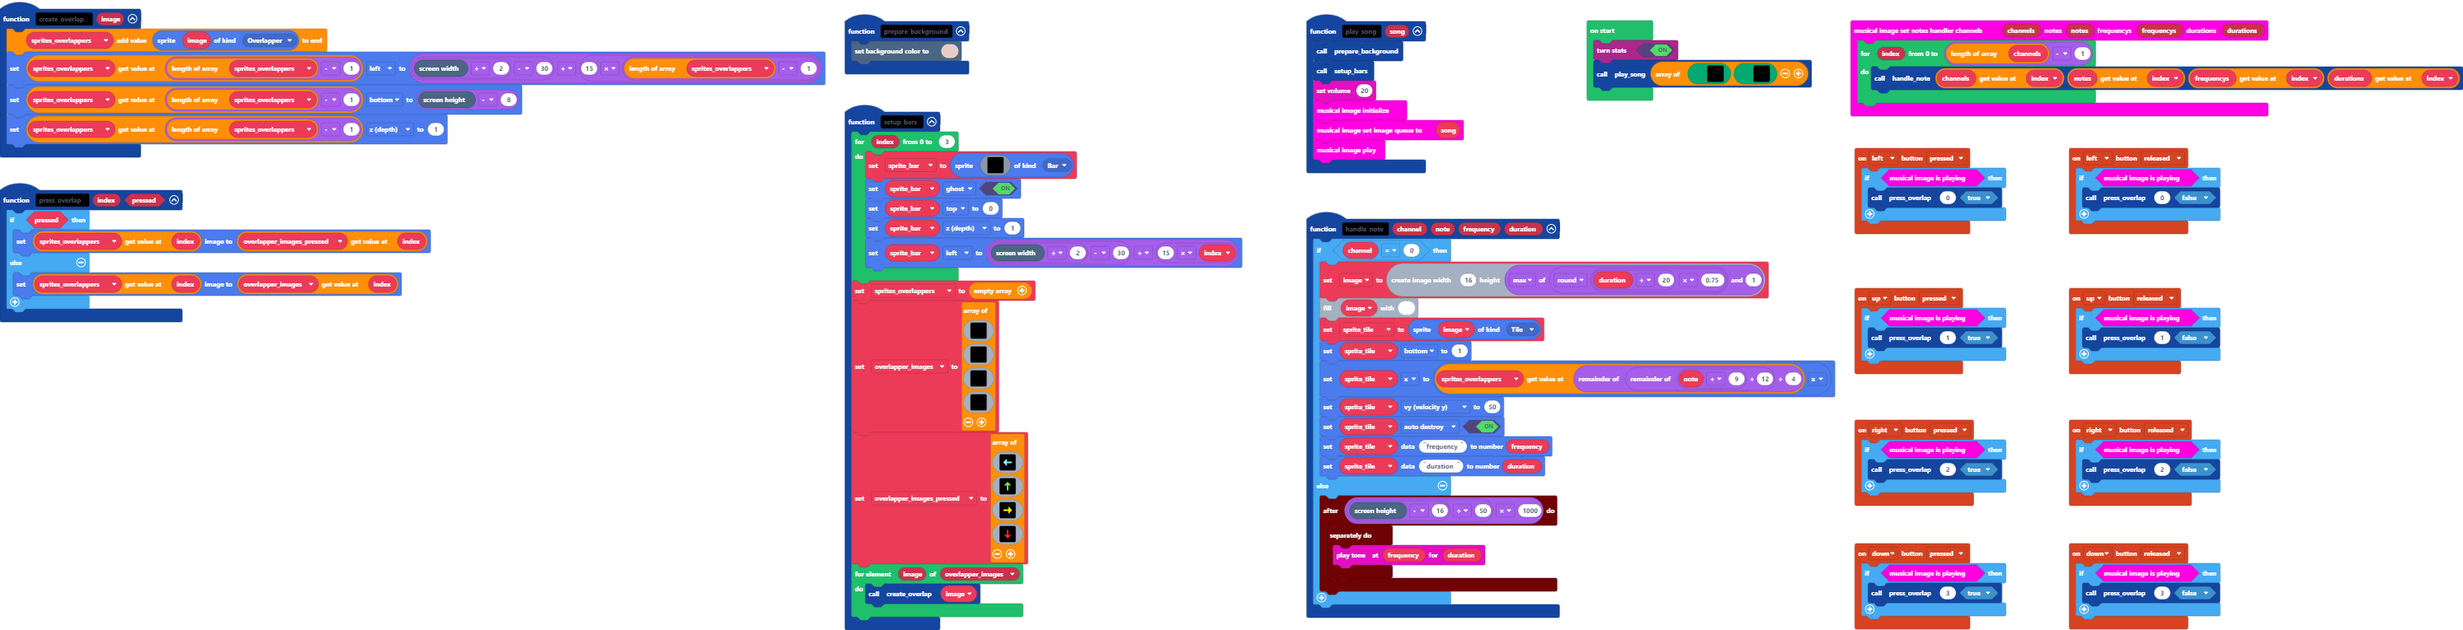
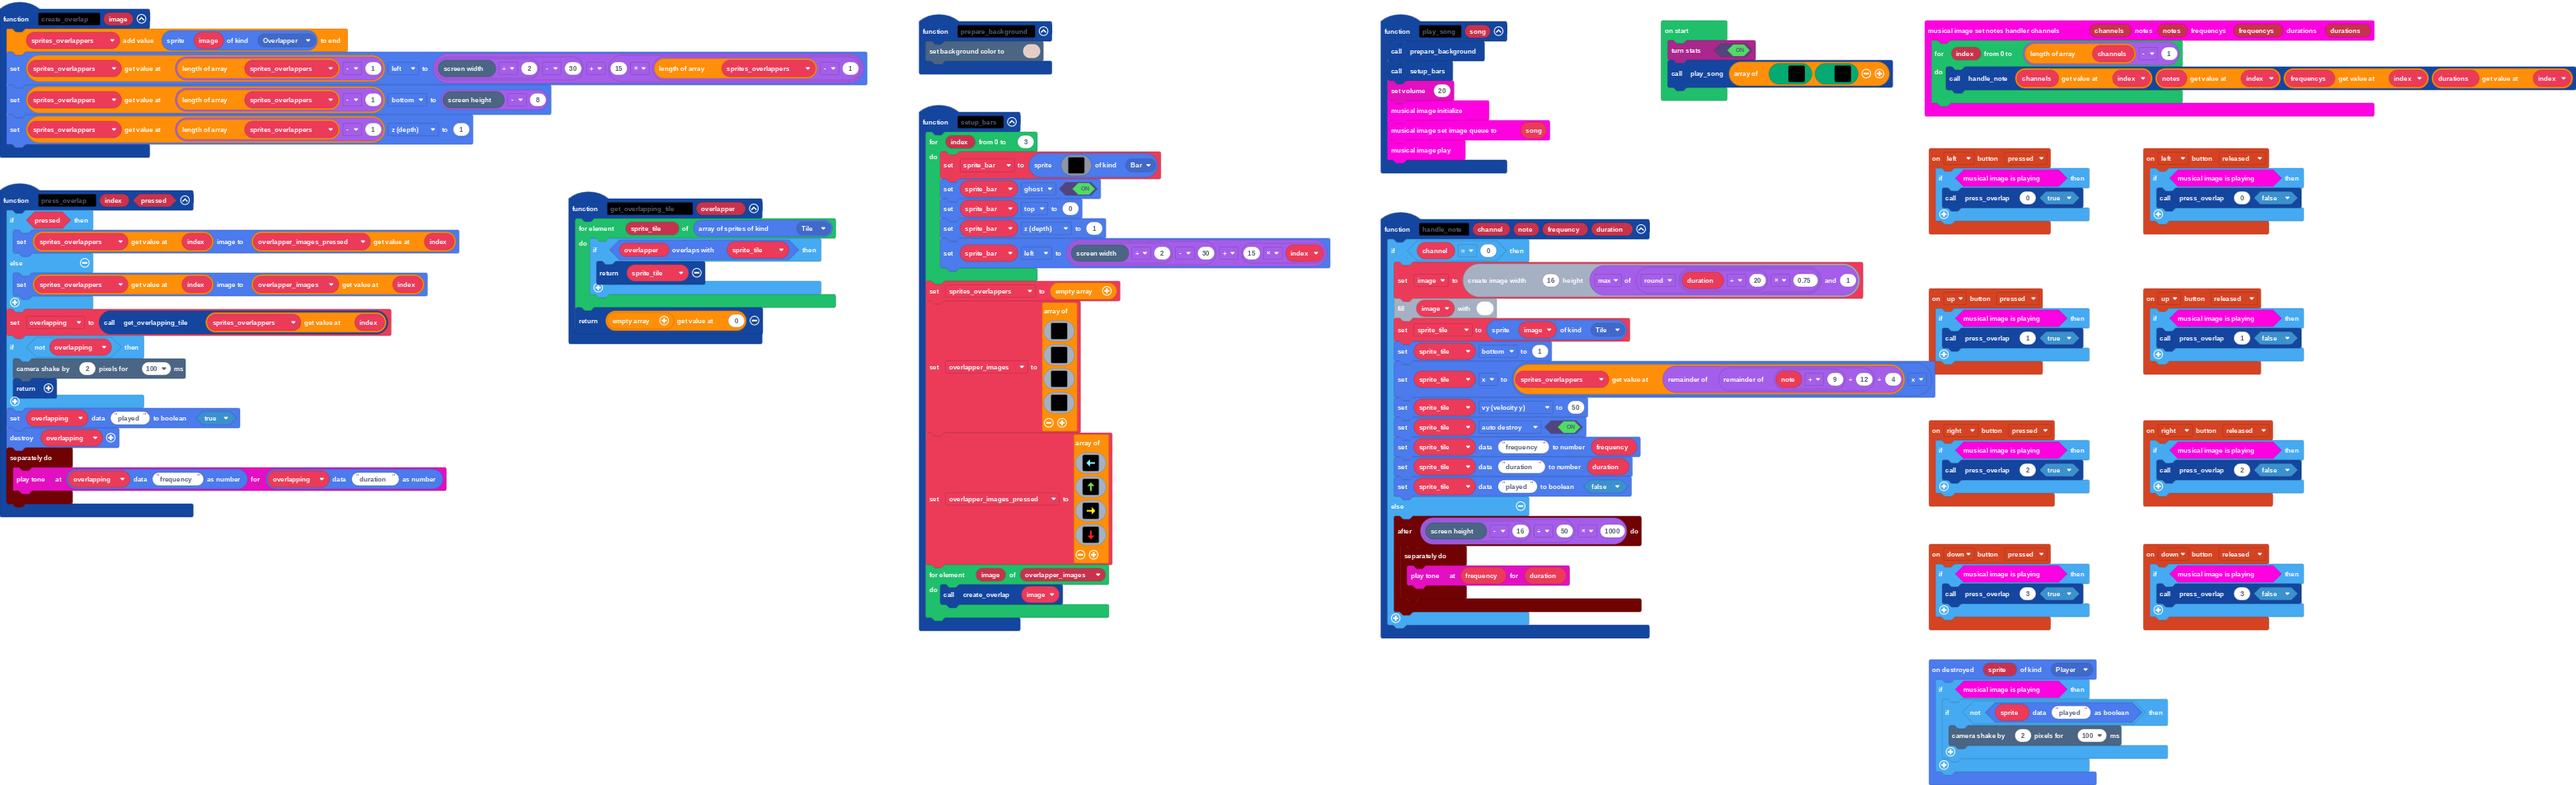
Make something

diff --git a/main.ts b/main.ts
@@ -39,6 +39,16 @@ function press_overlap (index: number, pressed: boolean) {
     } else {
         sprites_overlappers[index].setImage(overlapper_images[index])
     }
+    overlapping = get_overlapping_tile(sprites_overlappers[index])
+    if (!(overlapping)) {
+        scene.cameraShake(2, 100)
+        return
+    }
+    sprites.setDataBoolean(overlapping, "played", true)
+    overlapping.destroy()
+    timer.background(function () {
+        music.playTone(sprites.readDataNumber(overlapping, "frequency"), sprites.readDataNumber(overlapping, "duration"))
+    })
 }
 function handle_note (channel: number, note: number, frequency: number, duration: number) {
     if (channel == 0) {
@@ -51,6 +61,7 @@ function handle_note (channel: number, note: number, frequency: number, duration
         sprite_tile.setFlag(SpriteFlag.AutoDestroy, true)
         sprites.setDataNumber(sprite_tile, "frequency", frequency)
         sprites.setDataNumber(sprite_tile, "duration", duration)
+        sprites.setDataBoolean(sprite_tile, "played", false)
     } else {
         timer.after((scene.screenHeight() - 16) / 50 * 1000, function () {
             timer.background(function () {
@@ -116,8 +127,24 @@ function play_song (song: any[]) {
     MusicalImages.set_queue(song)
     MusicalImages.play()
 }
+function get_overlapping_tile (overlapper: Sprite) {
+    for (let sprite_tile of sprites.allOfKind(SpriteKind.Tile)) {
+        if (overlapper.overlapsWith(sprite_tile)) {
+            return sprite_tile
+        }
+    }
+    return [][0]
+}
+sprites.onDestroyed(SpriteKind.Player, function (sprite) {
+    if (MusicalImages.is_playing()) {
+        if (!(sprites.readDataBoolean(sprite, "played"))) {
+            scene.cameraShake(2, 100)
+        }
+    }
+})
 let sprite_tile: Sprite = null
 let image2: Image = null
+let overlapping: Sprite = null
 let overlapper_images_pressed: Image[] = []
 let overlapper_images: Image[] = []
 let sprites_overlappers: Sprite[] = []
